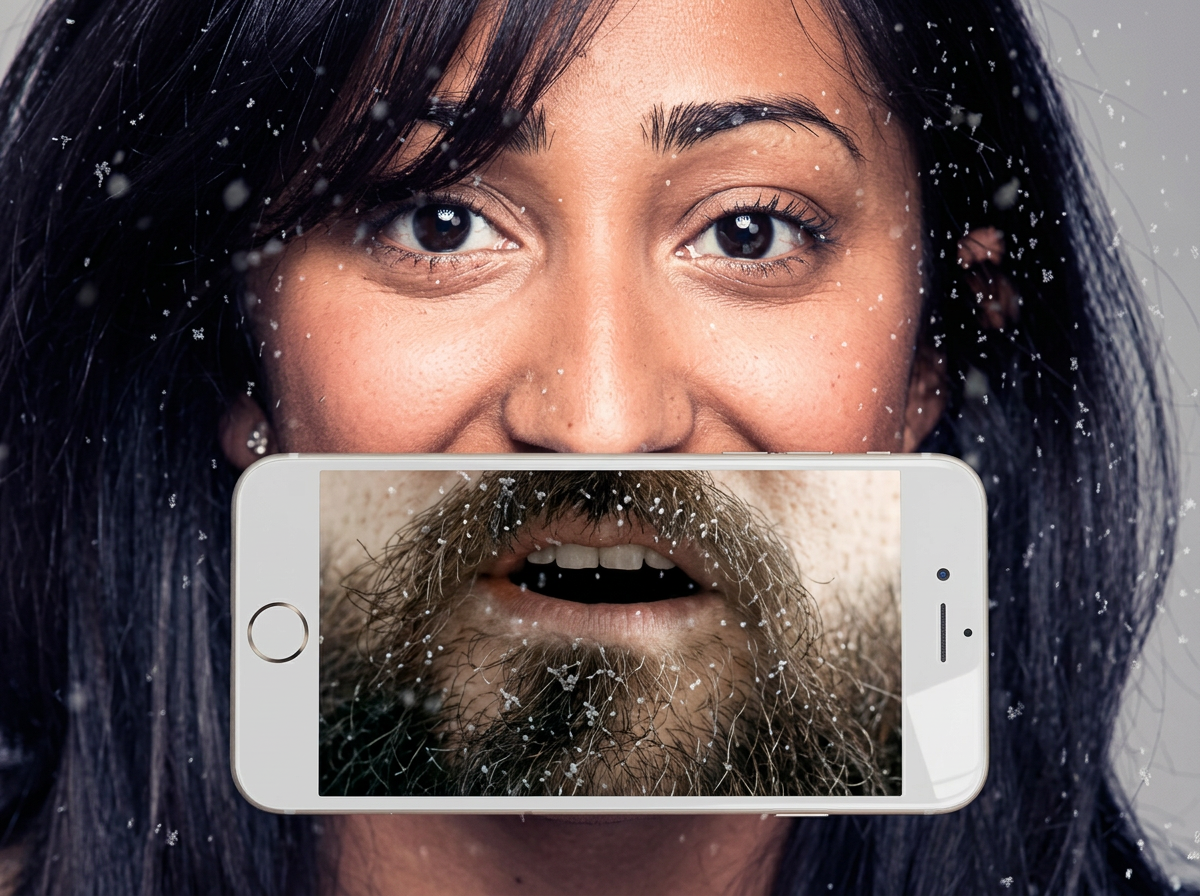
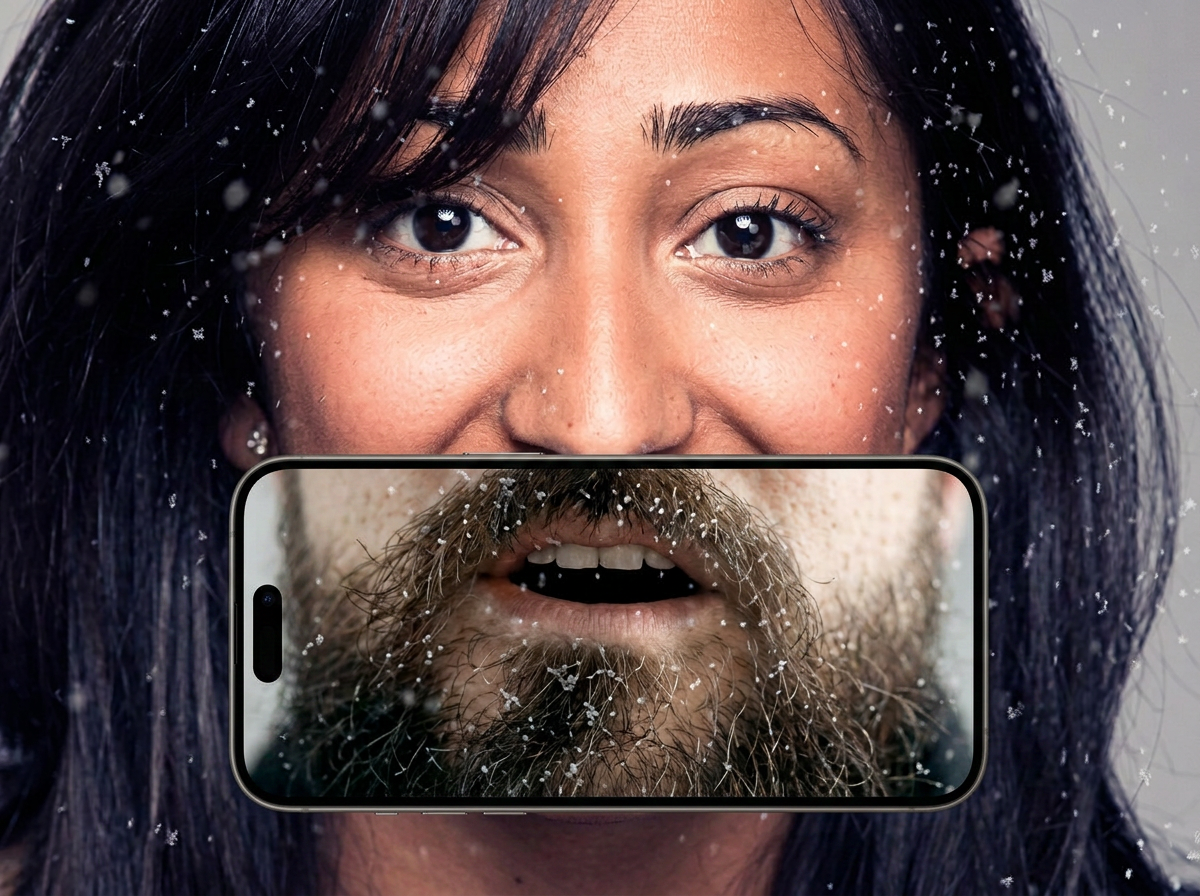
Case study prev/next in filter order; Sistacade 4.png; Carol thumb; [ ] shortcuts
Made-with: Cursor

diff --git a/app.js b/app.js
@@ -18,6 +18,8 @@
   const elBody = document.getElementById("project-detail-body");
   const elAwards = document.getElementById("project-detail-awards");
   const elBack = document.getElementById("project-back");
+  const elCasePrev = document.getElementById("project-case-prev");
+  const elCaseNext = document.getElementById("project-case-next");
   const elStage = document.getElementById("project-stage");
   const elThumbs = document.getElementById("project-thumbs");
   const btnPrev = document.getElementById("project-slide-prev");
@@ -414,6 +416,38 @@
     });
   }
 
+  function updateCaseStudyNav(p) {
+    const list = getFiltered();
+    const slug = projectSlug(p);
+    const idx = list.findIndex((x) => projectSlug(x) === slug);
+    if (elCasePrev) {
+      if (idx > 0) {
+        const prev = list[idx - 1];
+        const ps = projectSlug(prev);
+        elCasePrev.href = "#/project/" + encodeURIComponent(ps);
+        elCasePrev.hidden = false;
+        elCasePrev.setAttribute("aria-label", "Previous case study: " + (prev.title || ""));
+      } else {
+        elCasePrev.hidden = true;
+        elCasePrev.removeAttribute("href");
+        elCasePrev.removeAttribute("aria-label");
+      }
+    }
+    if (elCaseNext) {
+      if (idx >= 0 && idx < list.length - 1) {
+        const next = list[idx + 1];
+        const ns = projectSlug(next);
+        elCaseNext.href = "#/project/" + encodeURIComponent(ns);
+        elCaseNext.hidden = false;
+        elCaseNext.setAttribute("aria-label", "Next case study: " + (next.title || ""));
+      } else {
+        elCaseNext.hidden = true;
+        elCaseNext.removeAttribute("href");
+        elCaseNext.removeAttribute("aria-label");
+      }
+    }
+  }
+
   function mountProject(p) {
     currentProject = p;
     currentMedia = normalizeMedia(p);
@@ -477,6 +511,7 @@
         elRailExtra.hidden = true;
       }
     }
+    updateCaseStudyNav(p);
     syncGallery();
   }
 
@@ -504,6 +539,16 @@
     if (elStagePre) {
       elStagePre.textContent = "";
       elStagePre.hidden = true;
+    }
+    if (elCasePrev) {
+      elCasePrev.hidden = true;
+      elCasePrev.removeAttribute("href");
+      elCasePrev.removeAttribute("aria-label");
+    }
+    if (elCaseNext) {
+      elCaseNext.hidden = true;
+      elCaseNext.removeAttribute("href");
+      elCaseNext.removeAttribute("aria-label");
     }
   }
 
@@ -672,6 +717,16 @@
 
   document.addEventListener("keydown", (e) => {
     if (detailEl && !detailEl.hidden) {
+      if (e.key === "[" && elCasePrev && !elCasePrev.hidden) {
+        e.preventDefault();
+        elCasePrev.click();
+        return;
+      }
+      if (e.key === "]" && elCaseNext && !elCaseNext.hidden) {
+        e.preventDefault();
+        elCaseNext.click();
+        return;
+      }
       if (e.key === "ArrowLeft" && currentMedia.length) {
         e.preventDefault();
         currentSlide -= 1;

diff --git a/styles.css b/styles.css
@@ -446,14 +446,57 @@ main {
   gap: 1rem;
 }
 
+.project-detail__navrow {
+  display: grid;
+  grid-template-columns: 1fr auto 1fr;
+  align-items: start;
+  gap: 0.35rem 0.5rem;
+  width: 100%;
+  max-width: 100%;
+  margin-bottom: 0.25rem;
+}
+
+.project-detail__case-pager {
+  font-size: 0.65rem;
+  font-weight: 500;
+  letter-spacing: 0.1em;
+  text-transform: uppercase;
+  opacity: 0.85;
+  min-width: 0;
+  white-space: nowrap;
+  overflow: hidden;
+  text-overflow: ellipsis;
+}
+
+.project-detail__case-pager[hidden] {
+  display: none;
+}
+
+.project-detail__case-pager:first-child {
+  justify-self: start;
+  text-align: left;
+}
+
+.project-detail__case-pager:last-child {
+  justify-self: end;
+  text-align: right;
+}
+
+.project-detail__case-pager:hover,
+.project-detail__case-pager:focus-visible {
+  opacity: 1;
+}
+
 .project-detail__back {
   display: inline-block;
   font-size: 0.65rem;
   font-weight: 500;
   letter-spacing: 0.12em;
-  margin-bottom: 0.5rem;
+  margin-bottom: 0;
   text-transform: uppercase;
   opacity: 0.85;
+  justify-self: center;
+  text-align: center;
 }
 
 .project-detail__back:hover,

diff --git a/index.html b/index.html
@@ -42,7 +42,11 @@
       <section class="project-detail" id="project-detail" hidden>
         <div class="project-detail__inner">
           <div class="project-detail__left">
-            <a class="project-detail__back" id="project-back" href="#all">← Work</a>
+            <nav class="project-detail__navrow" aria-label="Work and nearby case studies">
+              <a class="project-detail__case-pager" id="project-case-prev" href="#" hidden>← Previous</a>
+              <a class="project-detail__back" id="project-back" href="#all">← Work</a>
+              <a class="project-detail__case-pager" id="project-case-next" href="#" hidden>Next →</a>
+            </nav>
             <h1 class="project-detail__title" id="project-detail-title">Project</h1>
             <div class="project-detail__body" id="project-detail-body" hidden></div>
             <ul class="project-detail__awards" id="project-detail-awards" hidden></ul>

diff --git a/projects.js b/projects.js
@@ -628,7 +628,7 @@ const PORTFOLIO_PROJECTS = [
       stills: [
         { src: "stills/sistacade/2.jpg", alt: "Sistacade 2" },
         { src: "stills/sistacade/3.jpg", alt: "Sistacade 3" },
-        { src: "stills/sistacade/4.jpg", alt: "Sistacade 4" },
+        { src: "stills/sistacade/4.png", alt: "Sistacade 4" },
         { src: "stills/sistacade/5.jpg", alt: "Sistacade 5" },
         { src: "stills/sistacade/6.jpg", alt: "Sistacade 6" },
         { src: "stills/sistacade/7.jpg", alt: "Sistacade 7" },
